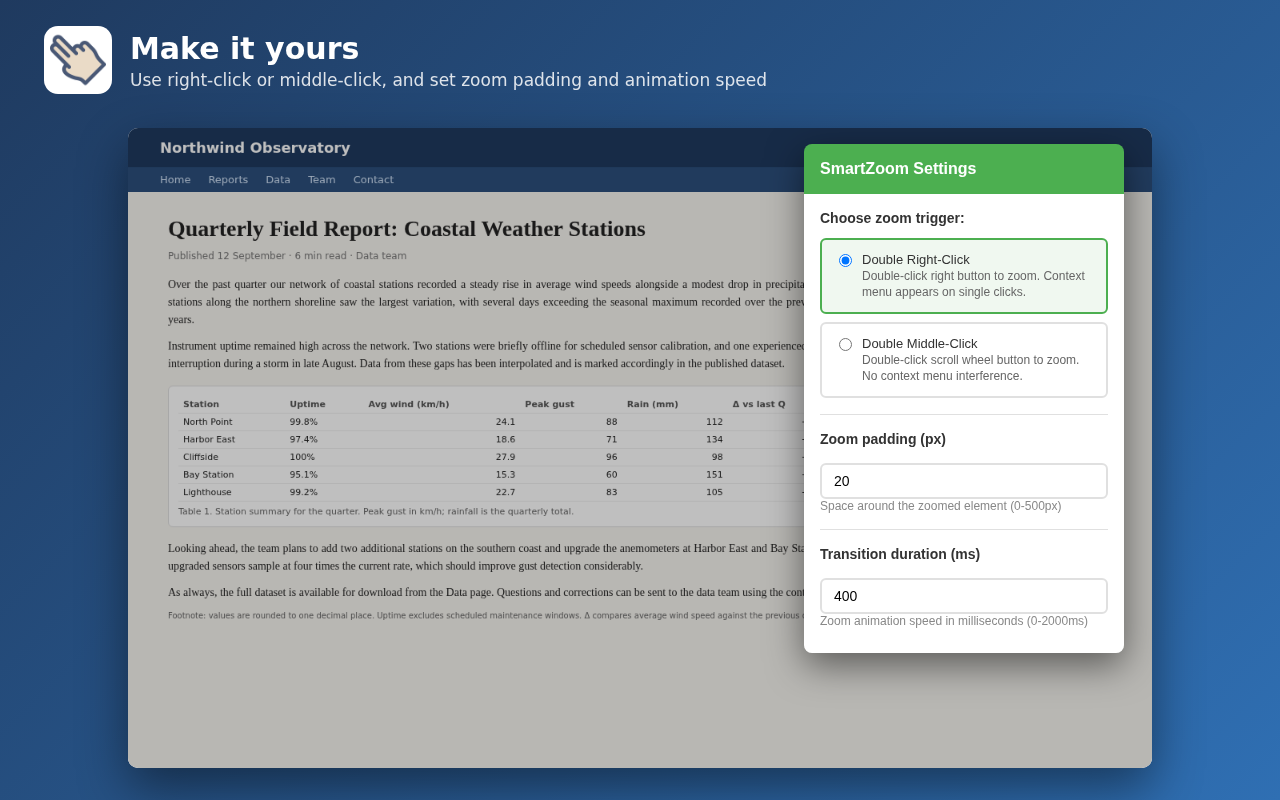
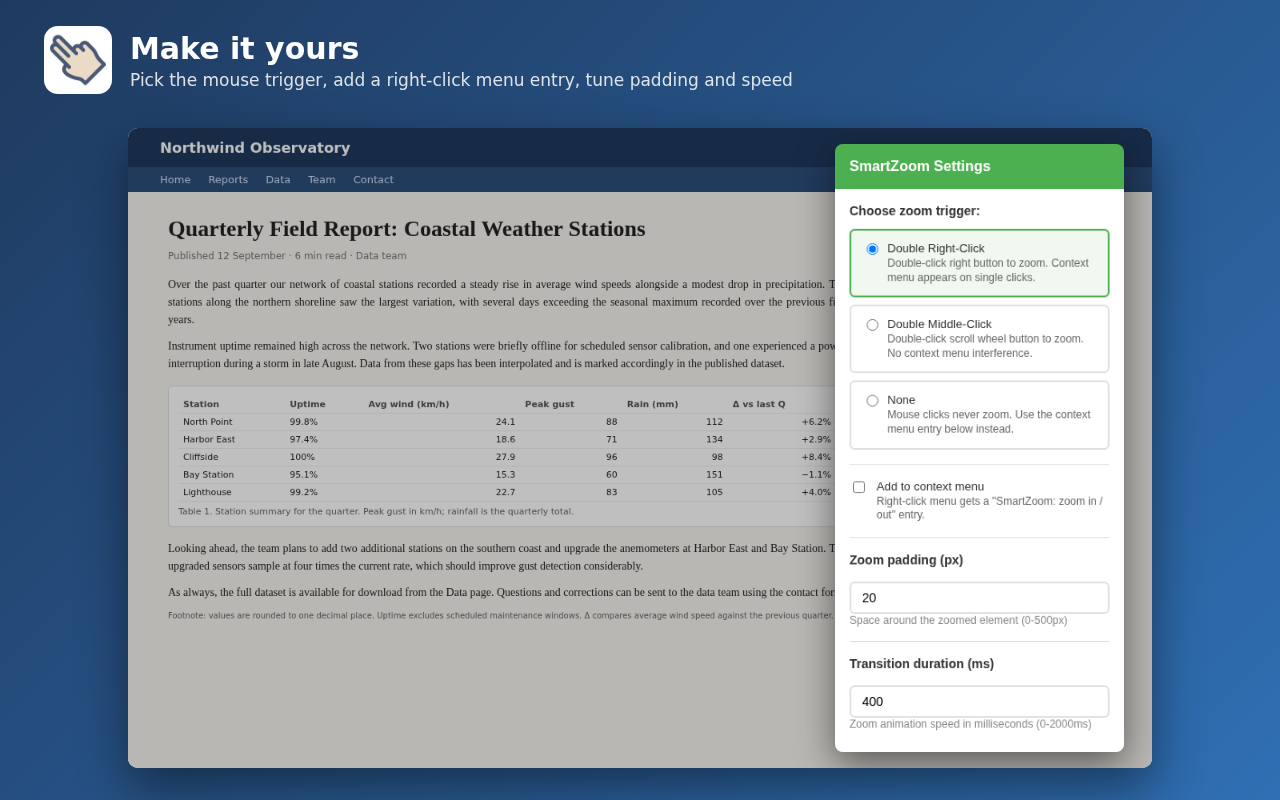
Add optional context menu entry and 'none' zoom trigger
- Popup checkbox adds a 'SmartZoom: zoom in / out' context menu entry
  (contextMenus permission, background service worker); off by default
- New 'none' trigger disables double-click zooming
- Store description and settings screenshot updated to match

Changed region(s): [[0.5938, 0.1562, 0.9062, 0.9688], [0.0938, 0.0938, 0.625, 0.125]]

diff --git a/popup.html b/popup.html
@@ -95,7 +95,18 @@
             font-size: 12px;
             color: #888;
         }
-        .duration-group {
+        .option-group .checkbox-option {
+            display: flex;
+            align-items: flex-start;
+            gap: 10px;
+            cursor: pointer;
+            font-weight: normal;
+            margin-bottom: 0;
+        }
+        .checkbox-option input {
+            margin-top: 2px;
+        }
+        .duration-group, .contextmenu-group {
             margin-top: 16px;
             padding-top: 16px;
             border-top: 1px solid #e0e0e0;
@@ -123,6 +134,24 @@
                     <div class="radio-description">Double-click scroll wheel button to zoom. No context menu interference.</div>
                 </div>
             </div>
+
+            <div class="radio-option" id="option-none">
+                <input type="radio" name="trigger" value="none" id="trigger-none">
+                <div class="radio-content">
+                    <div class="radio-title">None</div>
+                    <div class="radio-description">Mouse clicks never zoom. Use the context menu entry below instead.</div>
+                </div>
+            </div>
+        </div>
+
+        <div class="option-group contextmenu-group">
+            <label class="checkbox-option" for="contextMenu">
+                <input type="checkbox" id="contextMenu">
+                <div class="radio-content">
+                    <div class="radio-title">Add to context menu</div>
+                    <div class="radio-description">Right-click menu gets a "SmartZoom: zoom in / out" entry.</div>
+                </div>
+            </label>
         </div>
         
         <div class="option-group padding-group">

diff --git a/background.js b/background.js
@@ -1,0 +1,32 @@
+const MENU_ID = 'smartzoom-toggle';
+
+// Add or remove the context menu entry to match the setting
+function syncContextMenu() {
+    chrome.storage.sync.get({ contextMenu: false }, function (items) {
+        chrome.contextMenus.removeAll(function () {
+            if (items.contextMenu) {
+                chrome.contextMenus.create({
+                    id: MENU_ID,
+                    title: 'SmartZoom: zoom in / out',
+                    contexts: ['all'],
+                    documentUrlPatterns: ['http://*/*', 'https://*/*']
+                });
+            }
+        });
+    });
+}
+
+chrome.runtime.onInstalled.addListener(syncContextMenu);
+
+chrome.storage.onChanged.addListener(function (changes, area) {
+    if (area === 'sync' && changes.contextMenu) {
+        syncContextMenu();
+    }
+});
+
+chrome.contextMenus.onClicked.addListener(function (info, tab) {
+    if (info.menuItemId === MENU_ID) {
+        // Fails if the content script isn't there (e.g. tab opened before install); nothing to zoom then
+        chrome.tabs.sendMessage(tab.id, 'toggle-zoom', { frameId: info.frameId }).catch(function () {});
+    }
+});

diff --git a/js/inject.js b/js/inject.js
@@ -44,13 +44,26 @@ function setupEventListeners(trigger) {
                 zoom.to({ element: event.target, padding: zoomPadding });
             }
         }));
-    } else {
+    } else if (trigger === 'right') {
         // contextmenu event is only triggerred for right-click so no key checking is needed
         body.addEventListener('contextmenu', makeDoubleClickHandler(function (event) {
             zoom.to({ element: event.target, padding: zoomPadding });
         }));
     }
 }
+
+// Remember what was right-clicked so the context menu entry knows what to zoom to
+let contextMenuTarget = null;
+document.addEventListener('contextmenu', function (event) {
+    contextMenuTarget = event.target;
+}, true);
+
+// Context menu entry: zoom to the right-clicked element, or zoom out if already zoomed
+chrome.runtime.onMessage.addListener(function (message) {
+    if (message === 'toggle-zoom') {
+        zoom.to({ element: contextMenuTarget, padding: zoomPadding });
+    }
+});
 
 // Initialize on load
 init();

diff --git a/popup.js b/popup.js
@@ -2,7 +2,8 @@
 const DEFAULTS = {
     trigger: 'right', // 'right' or 'middle'
     padding: 20,
-    duration: 400
+    duration: 400,
+    contextMenu: false
 };
 
 // Load saved settings
@@ -23,6 +24,12 @@ document.addEventListener('DOMContentLoaded', function() {
         const duration = typeof items.duration === 'number' ? items.duration : DEFAULTS.duration;
         const durationInput = document.getElementById('duration');
         durationInput.value = duration;
+
+        document.getElementById('contextMenu').checked = items.contextMenu;
+    });
+
+    document.getElementById('contextMenu').addEventListener('change', function() {
+        chrome.storage.sync.set({ contextMenu: this.checked });
     });
     
     // Add event listeners to radio buttons

diff --git a/README.md b/README.md
@@ -1,7 +1,8 @@
 # Chrome Smart Zoom
 
 Bring MacOS 2 fingers double-tap to Chromium browsers on all OSes.  
-Double right-click to zoom-in, double right-click again or ESC to zoom-out.
+Double right-click to zoom-in, double right-click again or ESC to zoom-out.  
+Settings popup: switch the trigger to middle-click or none, and optionally add a "zoom in / out" entry to the context menu.
 
 
 
@@ -11,3 +12,8 @@ Double right-click to zoom-in, double right-click again or ESC to zoom-out.
 Credit:  
 [zoom.js](http://lab.hakim.se/zoom-js) by [Hakim El Hattab](http://hakim.se)  
 [Icon by Dryicons](https://dryicons.com/free-icons/double-finger)
+## Development
+
+`npm install`, then `npm run dev` (from an `ssh -Y` session for a window over X11 forwarding) launches Chrome with the extension loaded over CDP on port 9333 and reloads it when `manifest.json`, `background.js` or `js/*.js` change. `./tools/dev-browser.sh status|reload|stop` from another shell. See the header of `tools/dev-browser.sh` for options.
+
+`npm run package` writes the store upload to `dist/smartzoom-<version>.zip` (runtime files only).

diff --git a/CHANGELOG.md b/CHANGELOG.md
@@ -2,6 +2,12 @@
 
 All notable changes to this project will be documented in this file.
 
+## [Unreleased]
+
+### Added
+- Optional "SmartZoom: zoom in / out" context menu entry (off by default)
+- "None" zoom trigger to disable mouse double-click zooming
+
 ## [1.1.0] - 2026-04-29
 
 ### Added
